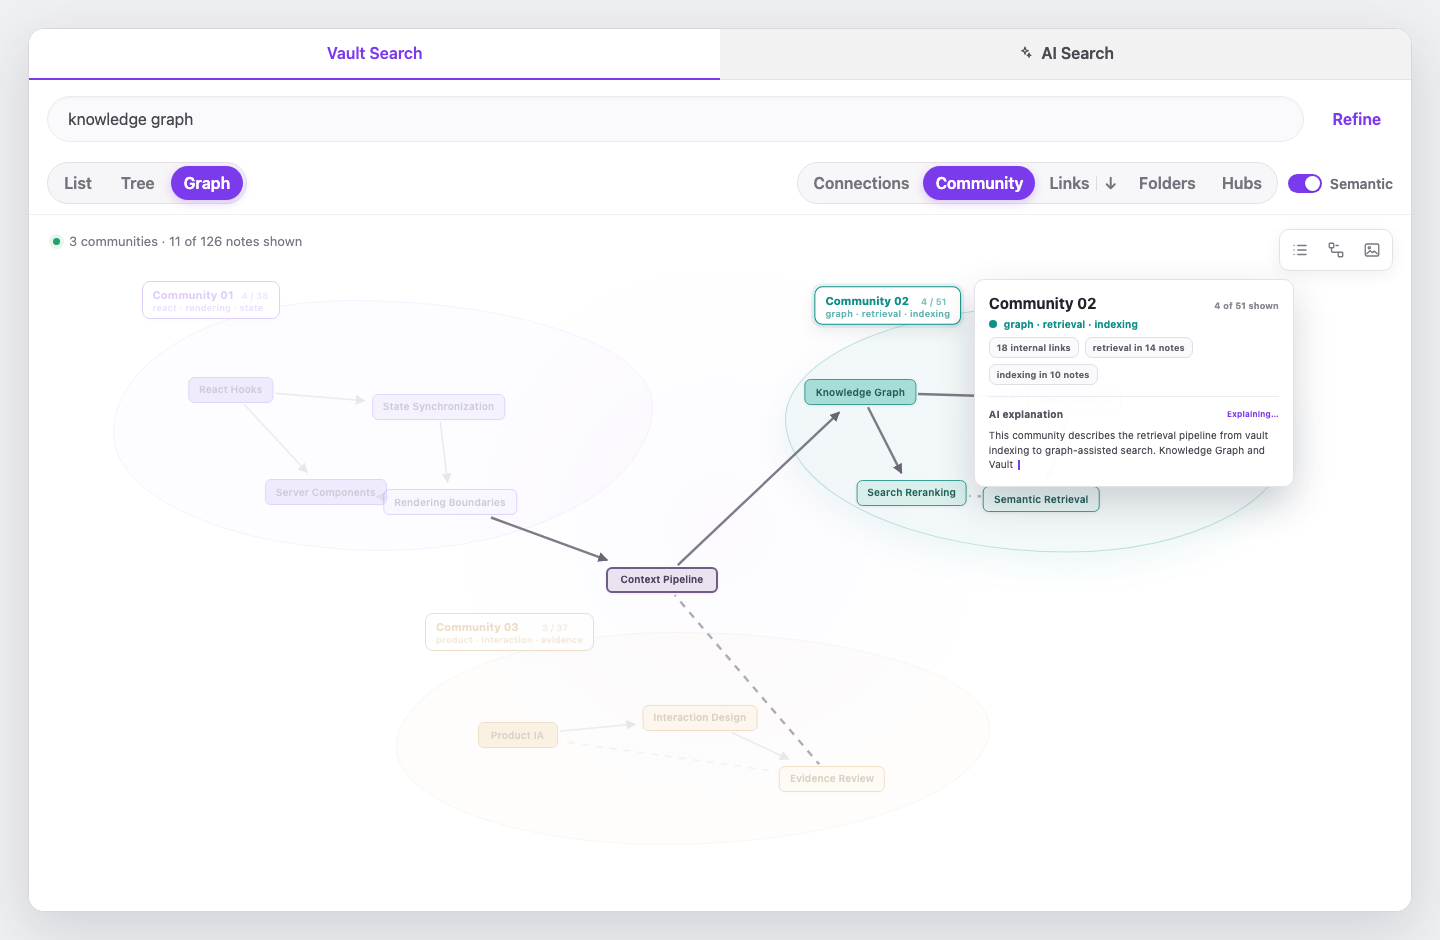
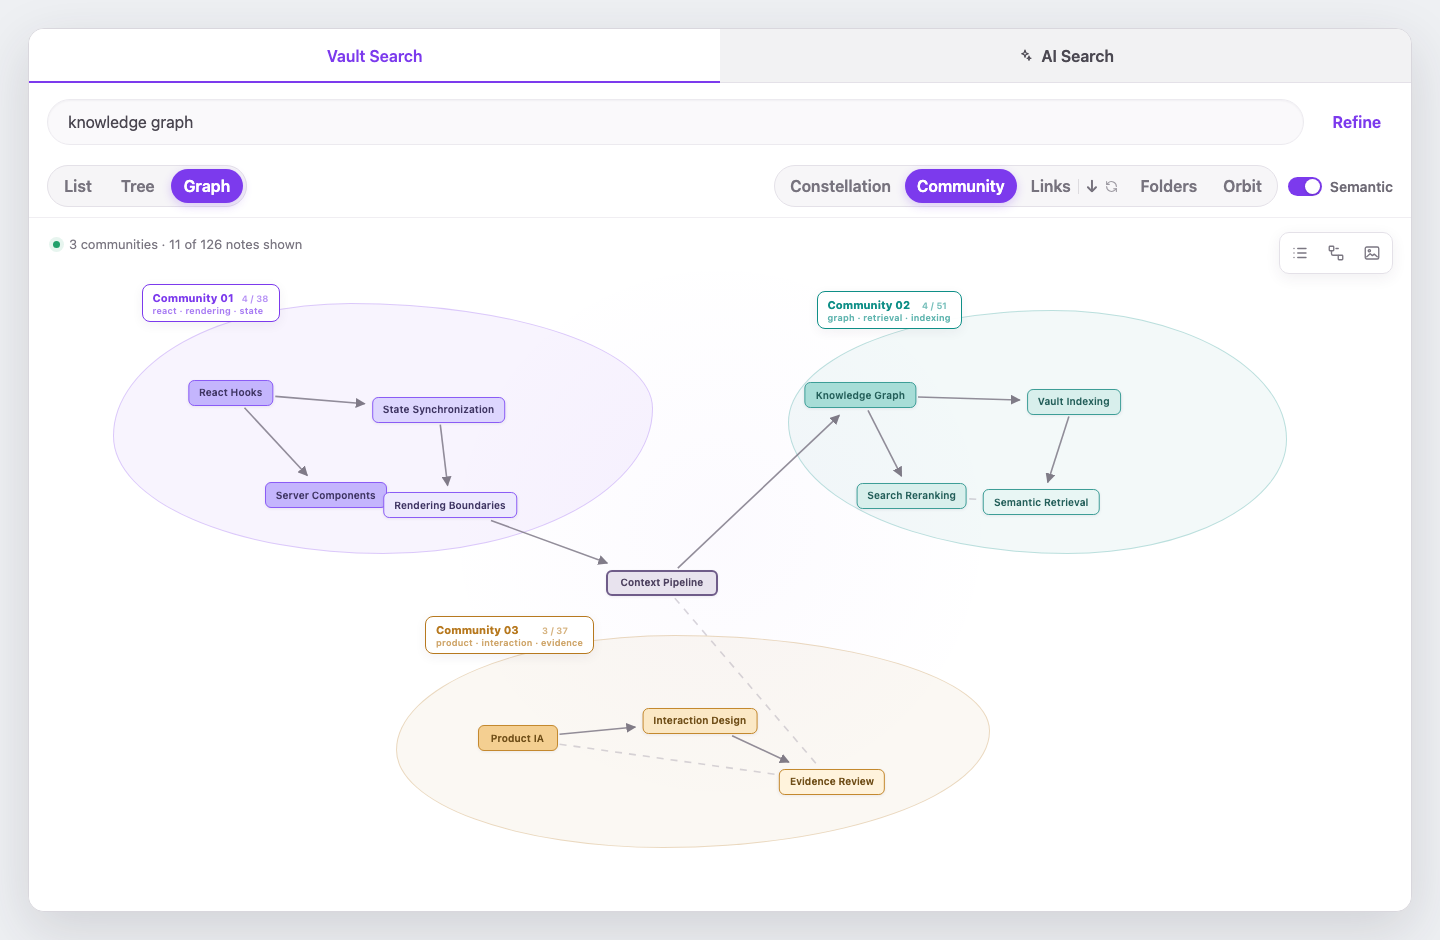
fix(graph): clarify link direction toggle

diff --git a/src/ui/component/result-browser/toolbar/ResultBrowserToolbar.tsx b/src/ui/component/result-browser/toolbar/ResultBrowserToolbar.tsx
@@ -11,7 +11,7 @@
  */
 import React, { useRef } from 'react';
 import { motion } from 'framer-motion';
-import { List, ListTree, Network } from 'lucide-react';
+import { List, ListTree, Network, RefreshCw } from 'lucide-react';
 import { CodeMirrorInput } from '@/ui/component/mine/codemirror-input';
 import { KeyboardShortcut } from '@/ui/component/mine/KeyboardShortcut';
 import { GraphSemanticToggle } from '@/ui/component/graph/GraphSemanticToggle';
@@ -262,6 +262,8 @@ const GraphPresetSegmented: React.FC<Pick<GraphControlsProps, 'preset' | 'onPres
 }) => {
 	const rootRef = useRef<HTMLDivElement>(null);
 	const keyTips = keyTipKeys?.preset ?? GRAPH_PRESET_KEY_TIPS;
+	const linksActive = preset === 'flow-tb' || preset === 'flow-lr';
+	const linksHorizontal = preset === 'flow-lr';
 	const standardControls: Array<{
 		id: ResultBrowserGraphPreset;
 		label: string;
@@ -269,6 +271,8 @@ const GraphPresetSegmented: React.FC<Pick<GraphControlsProps, 'preset' | 'onPres
 		active: boolean;
 		preset: ResultBrowserGraphPreset;
 		keyTip: string;
+		ariaLabel?: string;
+		directionSwitch?: boolean;
 	}> = [
 		{ id: 'constellation', label: 'Constellation', title: 'Force-directed cluster — how do these results cluster together?', active: preset === 'constellation', preset: 'constellation', keyTip: keyTips.constellation },
 		{ id: 'flow-tb', label: 'Flow ↓', title: 'Top-down hierarchical flow — what references what?', active: preset === 'flow-tb', preset: 'flow-tb', keyTip: keyTips['flow-tb'] },
@@ -277,11 +281,28 @@ const GraphPresetSegmented: React.FC<Pick<GraphControlsProps, 'preset' | 'onPres
 		{ id: 'orbit', label: 'Orbit', title: 'Hubs at center, docs orbit — are hubs the center of gravity?', active: preset === 'orbit', preset: 'orbit', keyTip: keyTips.orbit },
 	];
 	const communityControls: typeof standardControls = [
-		{ id: 'constellation', label: 'Connections', title: 'Relationship-first force layout', active: preset === 'constellation', preset: 'constellation', keyTip: keyTips.constellation },
+		{ id: 'constellation', label: 'Constellation', title: 'Force-directed cluster — how do these results cluster together?', active: preset === 'constellation', preset: 'constellation', keyTip: keyTips.constellation },
 		{ id: 'community', label: 'Community', title: 'Group current results by computed vault community', active: preset === 'community', preset: 'community', keyTip: keyTips.community },
-		{ id: 'flow-tb', label: `Links ${preset === 'flow-lr' ? '→' : '↓'}`, title: 'Read real reference direction; click again to switch orientation', active: preset === 'flow-tb' || preset === 'flow-lr', preset: preset === 'flow-tb' ? 'flow-lr' : 'flow-tb', keyTip: keyTips['flow-tb'] },
+		{
+			id: 'flow-tb',
+			label: `Links ${linksHorizontal ? '→' : '↓'}`,
+			title: !linksActive
+				? 'Open Links vertical (↓). Once selected, click again to switch to horizontal (→).'
+				: linksHorizontal
+					? 'Links horizontal (→). Click again to switch to vertical (↓).'
+					: 'Links vertical (↓). Click again to switch to horizontal (→).',
+			ariaLabel: !linksActive
+				? 'Open Links vertical. Once selected, click again to switch to horizontal.'
+				: linksHorizontal
+					? 'Links horizontal. Click again to switch to vertical.'
+					: 'Links vertical. Click again to switch to horizontal.',
+			directionSwitch: true,
+			active: linksActive,
+			preset: preset === 'flow-tb' ? 'flow-lr' : 'flow-tb',
+			keyTip: keyTips['flow-tb'],
+		},
 		{ id: 'folder', label: 'Folders', title: 'Arrange current results by vault folder', active: preset === 'folder', preset: 'folder', keyTip: keyTips.folder },
-		{ id: 'orbit', label: 'Hubs', title: 'Place generated hubs at the center', active: preset === 'orbit', preset: 'orbit', keyTip: keyTips.orbit },
+		{ id: 'orbit', label: 'Orbit', title: 'Hubs at center, docs orbit — are hubs the center of gravity?', active: preset === 'orbit', preset: 'orbit', keyTip: keyTips.orbit },
 	];
 	const controls = communityAvailable ? communityControls : standardControls;
 	useRovingComposite(rootRef, {
@@ -297,7 +318,7 @@ const GraphPresetSegmented: React.FC<Pick<GraphControlsProps, 'preset' | 'onPres
 			className="pktw-inline-flex pktw-items-center pktw-p-0.5 pktw-gap-0.5 pktw-bg-pk-surface-sunken pktw-rounded-full pktw-border pktw-border-pk-border"
 		>
 			{controls.map((control) => {
-				const { id, label, title, active } = control;
+				const { id, label, title, active, ariaLabel, directionSwitch } = control;
 				return (
 					<Button
 						key={id}
@@ -306,10 +327,11 @@ const GraphPresetSegmented: React.FC<Pick<GraphControlsProps, 'preset' | 'onPres
 						size="sm"
 						role="tab"
 						aria-selected={active}
+						aria-label={ariaLabel}
 						tabIndex={active ? 0 : -1}
 						data-graph-preset={control.preset}
 						data-peak-keytip-key={control.keyTip}
-						data-peak-keytip-label={`${label} graph layout`}
+						data-peak-keytip-label={ariaLabel ?? `${label} graph layout`}
 						title={title}
 						onClick={() => onPresetChange(control.preset)}
 						className={cn(
@@ -324,7 +346,15 @@ const GraphPresetSegmented: React.FC<Pick<GraphControlsProps, 'preset' | 'onPres
 								transition={{ type: 'spring', stiffness: 500, damping: 34 }}
 							/>
 						)}
-						<span className="pktw-relative pktw-z-10">{label}</span>
+						<span className="pktw-relative pktw-z-10 pktw-inline-flex pktw-items-center pktw-gap-1.5">
+							{label}
+							{directionSwitch && (
+								<RefreshCw
+									aria-hidden="true"
+									className="pktw-h-3 pktw-w-3 pktw-opacity-70"
+								/>
+							)}
+						</span>
 					</Button>
 				);
 			})}

diff --git a/docs/research/2026-08-10-result-graph-community-mock/index.html b/docs/research/2026-08-10-result-graph-community-mock/index.html
@@ -201,6 +201,13 @@
       opacity: 0.2;
     }
 
+	.links-switch-hint {
+		width: 13px;
+		height: 13px;
+		opacity: 0.7;
+		flex: 0 0 auto;
+	}
+
     .orientation {
       width: 20px;
       height: 24px;
@@ -713,13 +720,14 @@
 
         <div class="layout-area">
           <div class="layout-modes" aria-label="Graph interpretation">
-            <button class="mode-button" type="button" title="Relationship-first force layout">Connections</button>
+            <button class="mode-button" type="button" title="Force-directed cluster">Constellation</button>
             <button class="mode-button active" type="button" title="Group the current results by their vault community">Community</button>
-            <button class="mode-button links-button" type="button" title="Read real reference direction; placement remains heuristic">
+            <button class="mode-button links-button" type="button" title="Open Links vertical (↓). Once selected, click again to switch to horizontal (→)." aria-label="Open Links vertical. Once selected, click again to switch to horizontal.">
               <span>Links</span><span class="links-divider" aria-hidden="true"></span><span id="orientationGlyph">↓</span>
+			  <svg class="links-switch-hint" viewBox="0 0 24 24" fill="none" stroke="currentColor" stroke-width="2" stroke-linecap="round" stroke-linejoin="round" aria-hidden="true"><path d="M21 12a9 9 0 0 0-15.5-6.2L3 8"/><path d="M3 3v5h5"/><path d="M3 12a9 9 0 0 0 15.5 6.2L21 16"/><path d="M16 16h5v5"/></svg>
             </button>
             <button class="mode-button" type="button" title="Arrange by vault folder">Folders</button>
-            <button class="mode-button" type="button" title="Place generated hubs at the center">Hubs</button>
+            <button class="mode-button" type="button" title="Hubs at center, documents orbit around them">Orbit</button>
           </div>
 
           <label class="switch-wrap">
@@ -1188,9 +1196,27 @@
       canvas.classList.toggle('semantic-hidden', !event.target.checked);
     });
 
-    document.querySelector('.links-button').addEventListener('click', () => {
+	const layoutButtons = [...document.querySelectorAll('.mode-button')];
+	layoutButtons.forEach((button) => button.addEventListener('click', () => {
+	  if (button.classList.contains('links-button')) return;
+	  layoutButtons.forEach((candidate) => candidate.classList.remove('active'));
+	  button.classList.add('active');
+	}));
+
+    document.querySelector('.links-button').addEventListener('click', (event) => {
+	  const button = event.currentTarget;
       const glyph = document.getElementById('orientationGlyph');
-      glyph.textContent = glyph.textContent === '↓' ? '→' : '↓';
+	  const alreadyActive = button.classList.contains('active');
+	  layoutButtons.forEach((candidate) => candidate.classList.remove('active'));
+	  button.classList.add('active');
+	  if (alreadyActive) glyph.textContent = glyph.textContent === '↓' ? '→' : '↓';
+	  const horizontal = glyph.textContent === '→';
+	  button.title = horizontal
+		? 'Links horizontal (→). Click again to switch to vertical (↓).'
+		: 'Links vertical (↓). Click again to switch to horizontal (→).';
+	  button.setAttribute('aria-label', horizontal
+		? 'Links horizontal. Click again to switch to vertical.'
+		: 'Links vertical. Click again to switch to horizontal.');
     });
   </script>
 </body>

diff --git a/test/result-graph-canvas-toolbar.test.ts b/test/result-graph-canvas-toolbar.test.ts
@@ -58,9 +58,11 @@ assert.match(
 	/typeof semantic === 'boolean' && onSemanticChange/,
 	'other Result Browser hosts retain the optional outer semantic control',
 );
-for (const label of ['Connections', 'Community', 'Links ${', 'Folders', 'Hubs']) {
+for (const label of ['Constellation', 'Community', 'Links ${', 'Folders', 'Orbit']) {
 	assert.ok(toolbar.includes(label), `graph toolbar must include the consolidated ${label} control`);
 }
+assert.match(toolbar, /directionSwitch: true/, 'the consolidated Links control must visibly advertise direction switching');
+assert.match(toolbar, /Click again to switch to horizontal/, 'Links direction switching must be explained without guesswork');
 assert.match(
 	toolbar,
 	/communityAvailable \? communityControls : standardControls/,
